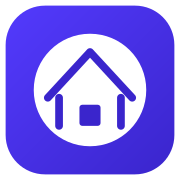
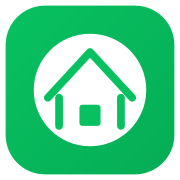
fix: change app theme color to WeChat green, darken login background
App icon and all PNGs changed from purple-blue to #07c160 green. Login page background changed from #3a25cc to #1a1a2e deep navy for contrast.

diff --git a/src/views/mobile/LoginPage.vue b/src/views/mobile/LoginPage.vue
@@ -444,13 +444,13 @@ oauth2ClientSessionId.value = generateRandomUUID();
     left: 0;
     right: 0;
     height: 60%;
-    background: #3a25cc;
+    background: #1a1a2e;
     pointer-events: none;
     z-index: 0;
 }
 
 .dark .login-bg-gradient {
-    background: #18184a;
+    background: #0d0d1a;
 }
 
 .login-content {
